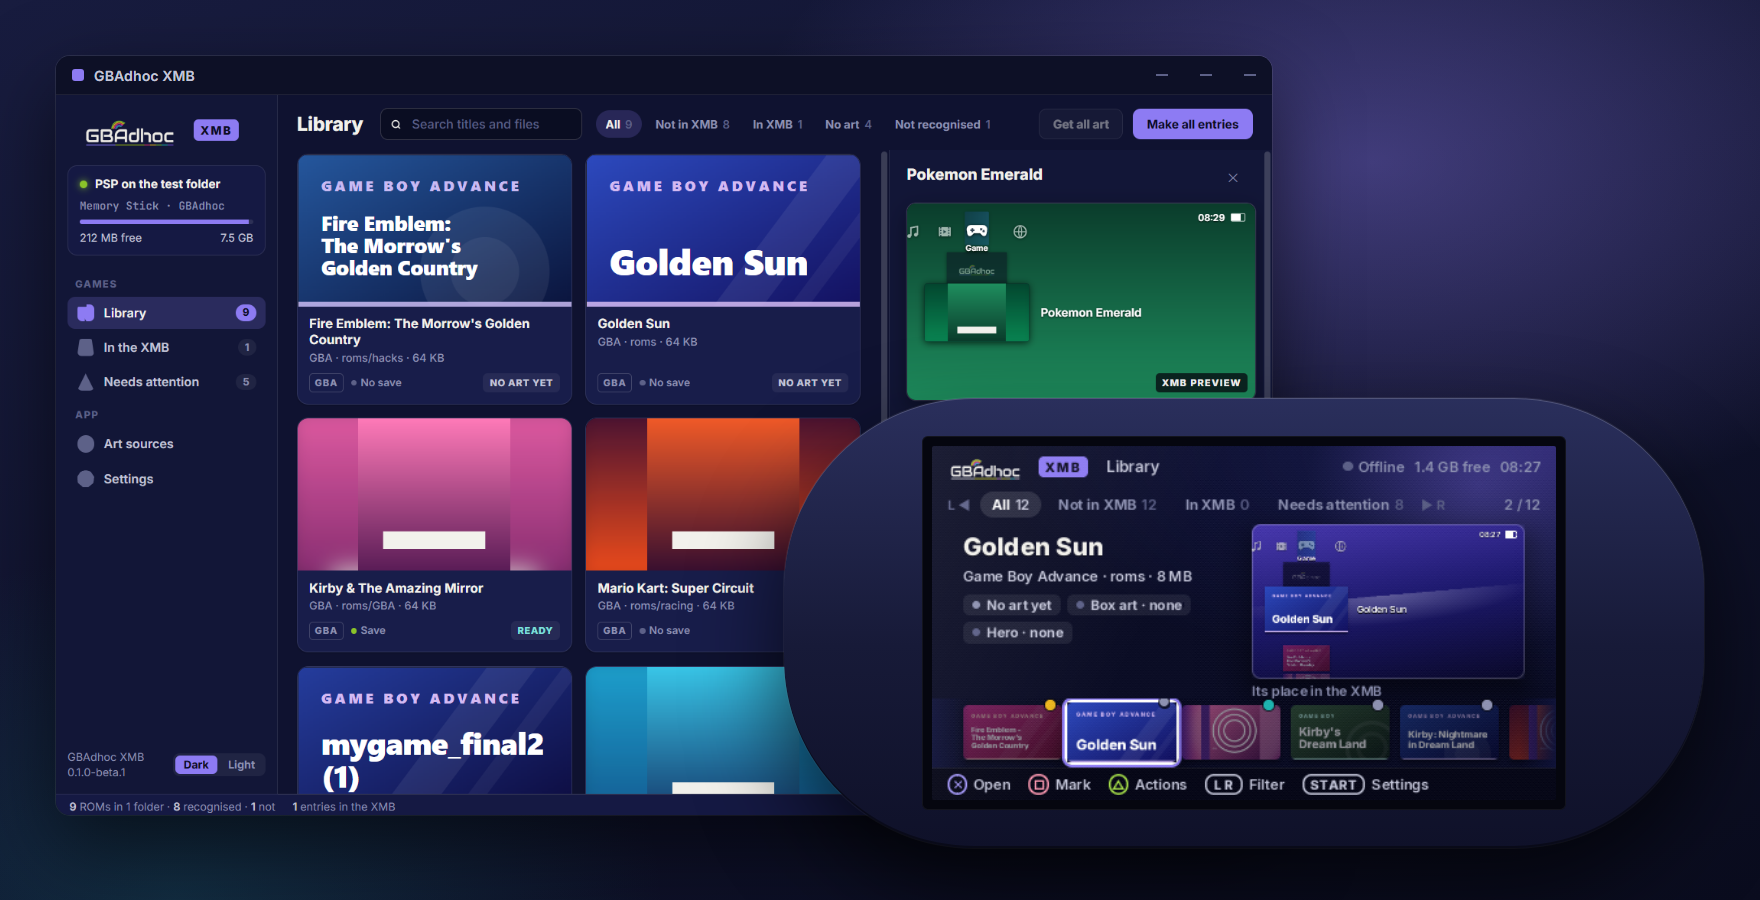
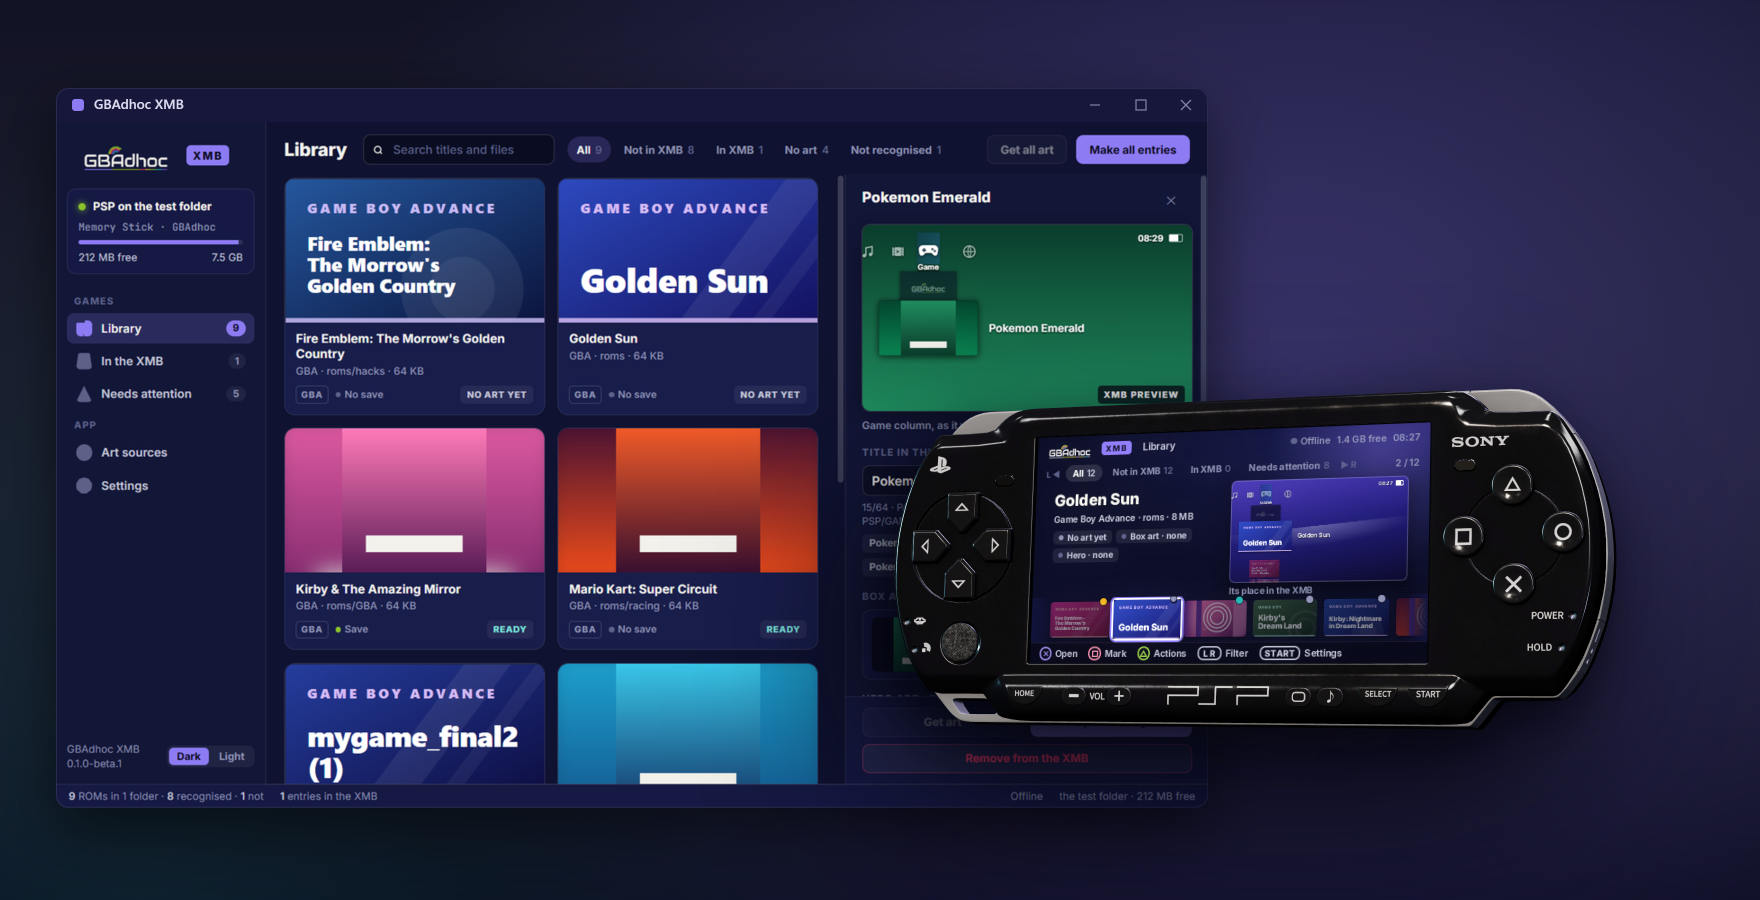
README: hero from the real PSP model

diff --git a/README.md b/README.md
@@ -24,9 +24,9 @@
 </p>
 
 <p align="center">
-  <img src="docs/img/hero.png" alt="GBAdhoc XMB for Windows, with Pokemon Emerald's entry open and its XMB preview, in front of GBAdhoc XMB for the PSP showing its library" width="880">
+  <img src="docs/img/hero.png" alt="GBAdhoc XMB for Windows, with Pokemon Emerald's entry open and its XMB preview, and in front of it a PSP whose screen shows GBAdhoc XMB's library with Golden Sun selected" width="880">
   <br>
-  <sub><b>The Windows app and the PSP app.</b> Both captured from the real apps, on a test folder of placeholder ROMs.</sub>
+  <sub><b>The Windows app and the PSP app.</b> Both screens captured from the real apps, on a test folder of placeholder ROMs; the PSP is a 3D render of the <a href="https://sketchfab.com/3d-models/sony-psp-dca89d10ec304d0cab76837750df7761">Sony PSP model</a> by <a href="https://sketchfab.com/strov">Ilya Ostrovsky</a>, <a href="http://creativecommons.org/licenses/by/4.0/">CC BY 4.0</a>.</sub>
 </p>
 
 **GBAdhoc XMB is a companion to [GBAdhoc](https://github.com/ShoshinFauteux/GBAdhoc),** the

diff --git a/THIRD_PARTY.md b/THIRD_PARTY.md
@@ -67,3 +67,9 @@ All other art is ours: the GBAdhoc logo (`desktop/ui/assets/`), the app's ICON0 
 (`psp/tools/glyphs.js`), the title cards and every UI element, which are drawn in code. The
 screenshots in `docs/img/` are captures of the two apps on test folders with placeholder
 ROMs and drawn placeholder art.
+
+## Images
+
+| Component | Licence | Used for |
+|---|---|---|
+| **"Sony PSP" 3D model** by [Ilya Ostrovsky](https://sketchfab.com/strov) ([source](https://sketchfab.com/3d-models/sony-psp-dca89d10ec304d0cab76837750df7761)) | [CC BY 4.0](http://creativecommons.org/licenses/by/4.0/) | the README hero image (`docs/img/hero.png`), rendered with the app's screen on it. The model itself is not in this repository. |
